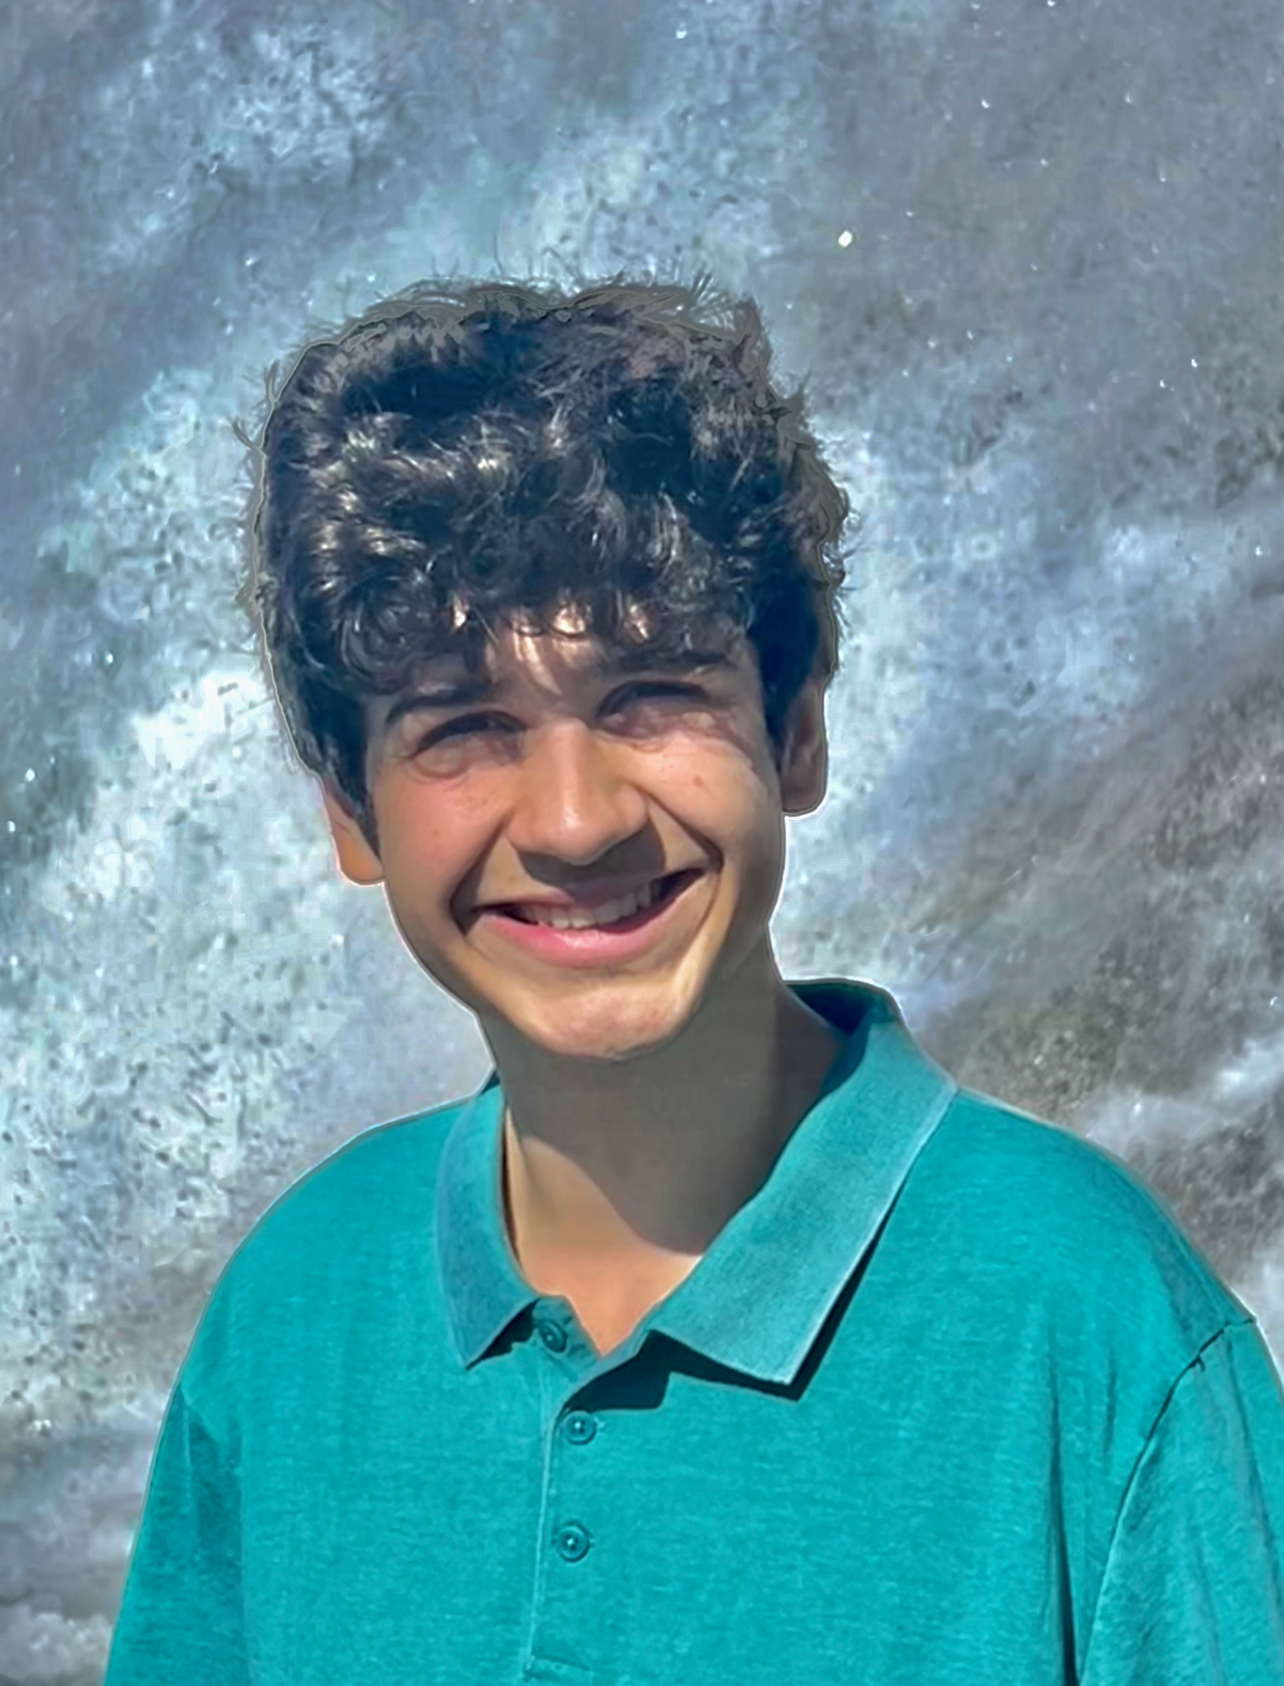
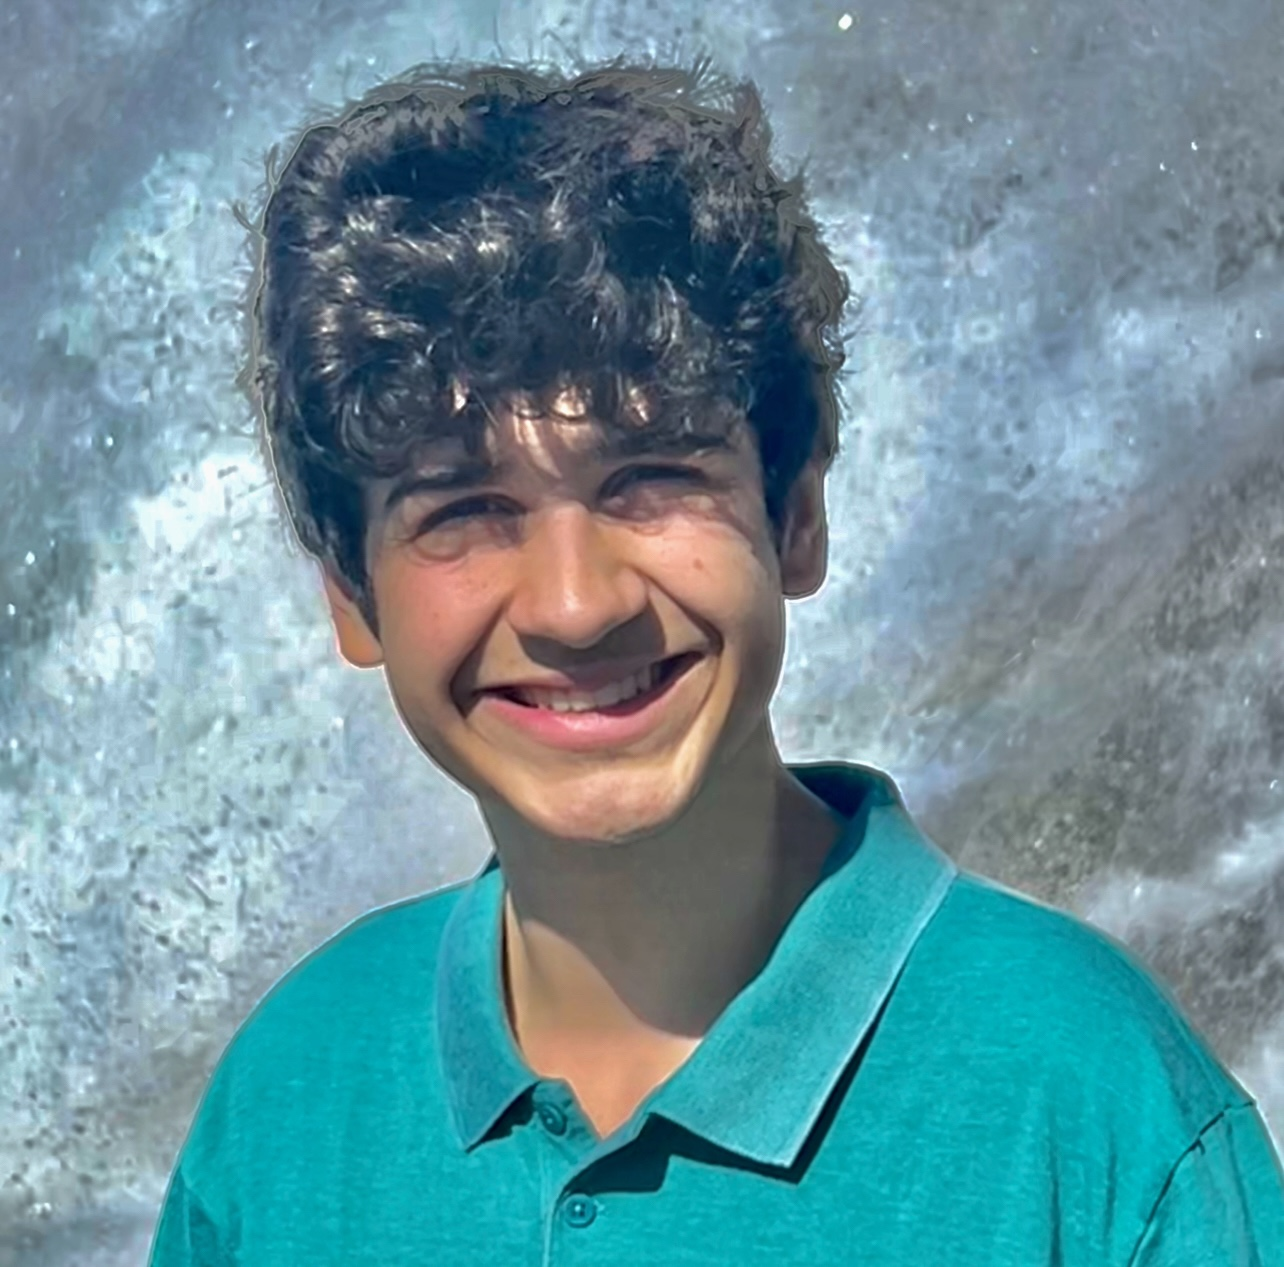
image updates

diff --git a/index.html b/index.html
@@ -4,7 +4,7 @@
 <body>
 <header class="header"><a class="brand" href="./"><strong>PSI</strong><span>Partnership for Scientific Inquiry</span></a><nav><a href="about/">About</a><a href="leadership/">Leadership</a><a href="application/">Application</a><a href="faq/">FAQ</a><a href="important-dates/">Important Dates</a><details class="more-menu"><summary>More</summary><div><a href="awards/">Awards</a><a href="collaborations/">Collaborations</a><a href="testimonials/">Testimonials</a><a href="previous-lectures/">Lectures</a><a href="lewis-scholars/">Lewis Scholars</a><a href="alumni-achievements/">Alumni Achievements</a><a href="media/">Media</a><a href="visitor-analytics/">Visitor Analytics</a></div></details><a href="contact/">Contact Us</a></nav><a class="button yellow" href="donate/">Donate to PSI</a></header>
 <main>
-  <section class="hero"><div class="hero-copy"><p class="kicker">Partnership for Scientific Inquiry</p><h1>Building tomorrow's researchers today</h1><p>The Partnership for Scientific Inquiry (PSI) program introduces high school students to the scientific process, encouraging their scientific passion and fostering a relationship between researchers and the local community.</p><div class="actions"><a class="button yellow" href="application/">Application</a><a class="button outline" href="about/">About the PSI Program</a></div></div><img src="assets/97aecb894393459e849c6cea5624c52c.jpg" alt=""></section>
+  <section class="hero"><div class="hero-copy"><p class="kicker">Partnership for Scientific Inquiry</p><h1>Building tomorrow's researchers today</h1><p>The Partnership for Scientific Inquiry (PSI) program introduces high school students to the scientific process, encouraging their scientific passion and fostering a relationship between researchers and the local community.</p><div class="actions"><a class="button yellow" href="application/">Application</a><a class="button outline" href="about/">About the PSI Program</a></div></div><img class="hero-main-image" src="assets/homepage-lab-2026.png" alt="PSI students working together in a biomedical research laboratory"></section>
   <section class="content split"><div><p class="kicker blue">Program Overview</p><h2>About the PSI Course</h2></div><div><p>Our program accepts Sophomore, Junior, and Senior high school students who are interested in pursuing careers in medicine or biomedical research through a 16-week course from January to May. Students are introduced to the scientific process and gain access to research scientists from OHSU and other Portland research institutes.</p><p>The semester-long program typically ends with a summer internship opportunity to work alongside a research mentor, requiring students to be at least 16 years old.</p><p>We meet for two hours on Wednesdays (January-May) for a lecture series and to learn about ongoing research projects conducted by scientists at Oregon Health &amp; Science University (OHSU).</p></div></section>
   <section class="green-band"><div class="content"><p class="kicker">Elements of the Program</p><div class="cards"><article><div class="card-image"><img class="mentor-image" src="assets/mentor-autumn-schnathorst.jpeg" alt="PSI student Autumn Schnathorst with her mentor at a poster presentation"></div><h3>Didactic Mentors</h3><p>All PSI students are matched one-on-one with a didactic mentor to guide them through the 16-week didactic course.</p><a href="about/">About the PSI Program</a></article><article><div class="card-image"><img class="summer-image" src="assets/8c51ca_e12936298d0d42bba3d9cb0ba8fda319~mv2.png" alt="Student conducting summer research"></div><h3>Summer Internship</h3><p>Students may elect to join a scientific laboratory or perform clinical research over the summer.</p><a href="important-dates/">Important Dates</a></article><article><div class="card-image"><img class="conference-image" src="assets/8c51ca_7bb2a221c1ff40a1aea00238dcd94cdd~mv2.jpeg" alt="PSI students and mentors at the poster conference"></div><h3>PSI Poster Conference</h3><p>As of 2023, we host a poster symposium at the end of the summer internship series to showcase the students' research and allow them to practice their presentation skills.</p><a href="awards/">View Conference Awards</a></article></div></div></section>
   <section class="course-experience"><div class="content"><div class="course-heading"><p class="kicker blue">The Student Experience</p><h2>Learning science by doing science</h2></div><div class="experience-grid"><article><span>01</span><h3>Mentorship &amp; Scientific Communication</h3><p>Each student will be mentored by a researcher. Each student gains firsthand knowledge of research methods, and, with their mentor's help, will present a published research article in a journal club format and develop their own research proposal.</p></article><article><span>02</span><h3>Commitment &amp; Summer Research</h3><p>The program requires regular attendance and significant time commitment outside of class for course assignments. Students may elect to join a scientific laboratory or perform clinical research over the summer. Research faculty and students volunteer their time and resources to mentor PSI students.</p></article><article><span>03</span><h3>Connecting with Local Schools</h3><p>We work closely with local high school officials to reach out to students interested in science and medical research and to arrange for high school credit earned by participating in the class.</p></article></div></div></section>

diff --git a/awards/index.html b/awards/index.html
@@ -26,9 +26,7 @@
     .award-grid{display:grid;grid-template-columns:repeat(4,minmax(0,1fr));gap:19px}
     .award-card{display:flex;flex-direction:column;overflow:hidden;border:1px solid #cddce8;background:#fff;box-shadow:0 10px 25px rgba(5,44,91,.06)}
     .award-card img{width:100%;aspect-ratio:4 / 3;object-fit:cover;object-position:center 30%;background:#edf5fb}
-    .award-card img.portrait-crop{aspect-ratio:1 / 1.02}
-    .award-card img.focus-right{object-position:100% 34%}
-    .award-card img.focus-left{object-position:0 34%}
+    .award-card img.uncropped-photo{aspect-ratio:3 / 2;object-fit:contain;object-position:center;background:#e8eef4}
     .award-card-copy{display:flex;flex:1;flex-direction:column;padding:21px 18px 20px}
     .award-card h3{margin:0;color:#084fa8;font-size:22px;line-height:1.1;letter-spacing:-.035em}
     .award-card .name{margin:8px 0 13px;color:#083d36;font-size:16px;font-weight:800;line-height:1.25}
@@ -91,8 +89,8 @@
         <div class="featured-list"><div>Lightning Talks: Students delivered concise, impactful presentations highlighting their summer research and literature projects.</div><div>Poster Presentations: Over 40 posters covered topics in biomedical research, engineering, neuroscience, genetics, and more, reflecting the intellectual curiosity and dedication of our students.</div><div>Award Ceremony: Exceptional students were recognized for their creativity, scientific rigor, and presentation skills.</div></div>
         <div class="award-grid">
           <article class="award-card"><img src="../assets/8c51ca_ab9fc70604c2479bb27257260f562fb8~mv2.jpg" alt="Kaia Matthias presenting her poster."><div class="award-card-copy"><h3>Best Lightning Talk - First Place</h3><p class="name">Kaia Matthias</p><p class="caption">Kaia presenting her poster.</p><a href="../documents/kaia-matthias-2025-project.pdf" target="_blank" rel="noopener">Read More</a></div></article>
-          <article class="award-card"><img class="portrait-crop focus-right" src="../assets/8c51ca_ba4d5811f9ce43709922f191ab0d89bb~mv2.jpeg" alt="McKenzie practicing her lightning talk."><div class="award-card-copy"><h3>Best Lightning Talk - Second Place</h3><p class="name">McKenzie Vo</p><p class="caption">McKenzie practicing her lightning talk.</p><a href="../documents/mckenzie-vo-2025-project.pdf" target="_blank" rel="noopener">Read More</a></div></article>
-          <article class="award-card"><img class="portrait-crop focus-left" src="../assets/8c51ca_fedd6ed0591249759b2705693eb8a132~mv2.jpg" alt="Swathi presenting her poster."><div class="award-card-copy"><h3>Best Lightning Talk - Third Place</h3><p class="name">Swathi Ram</p><p class="caption">Swathi presenting her poster.</p><a href="../documents/swathi-ram-2025-project.pdf" target="_blank" rel="noopener">Read More</a></div></article>
+          <article class="award-card"><img class="uncropped-photo" src="../assets/8c51ca_ba4d5811f9ce43709922f191ab0d89bb~mv2.jpeg" alt="McKenzie practicing her lightning talk."><div class="award-card-copy"><h3>Best Lightning Talk - Second Place</h3><p class="name">McKenzie Vo</p><p class="caption">McKenzie practicing her lightning talk.</p><a href="../documents/mckenzie-vo-2025-project.pdf" target="_blank" rel="noopener">Read More</a></div></article>
+          <article class="award-card"><img class="uncropped-photo" src="../assets/8c51ca_fedd6ed0591249759b2705693eb8a132~mv2.jpg" alt="Swathi presenting her poster."><div class="award-card-copy"><h3>Best Lightning Talk - Third Place</h3><p class="name">Swathi Ram</p><p class="caption">Swathi presenting her poster.</p><a href="../documents/swathi-ram-2025-project.pdf" target="_blank" rel="noopener">Read More</a></div></article>
           <article class="award-card"><img src="../assets/8c51ca_1885a3f01aa345b694c32e663defcdbb~mv2.jpg" alt="Vrasti's mom, Sofia (PSI director), and Vrasti proudly showcasing her many well-earned awards."><div class="award-card-copy"><h3>Best Lightning Talk - Honorable Mention</h3><p class="name">Vrasti Jain</p><p class="caption">Vrasti's mom, Sofia (PSI director), and Vrasti proudly showcasing her many well-earned awards.</p><a href="../documents/vrasti-jain-2025-project.pdf" target="_blank" rel="noopener">Read More</a></div></article>
           <article class="award-card"><img src="../assets/8c51ca_ed982dff70f54f9f8f0ff6d159b110a6~mv2.jpg" alt="Vrasti presenting her poster."><div class="award-card-copy"><h3>Best Poster Presentation - First Place</h3><p class="name">Vrasti Jain</p><p class="caption">Vrasti presenting her poster.</p><a href="../documents/vrasti-jain-2025-project.pdf" target="_blank" rel="noopener">Read More</a></div></article>
           <article class="award-card"><img src="../assets/8c51ca_c622b6ebec4346ca9de643f076acadfa~mv2.jpg" alt="Aryan presenting his poster."><div class="award-card-copy"><h3>Best Poster Presentation - Second Place</h3><p class="name">Aryan Iyer</p><p class="caption">Aryan presenting his poster.</p><a href="../documents/aryan-iyer-2025-project.pdf" target="_blank" rel="noopener">Read More</a></div></article>

diff --git a/lewis-scholars/index.html b/lewis-scholars/index.html
@@ -10,8 +10,6 @@ body{background:#fff;color:var(--ink)}.lewis-nav-more{position:relative;display:
 .lewis-main{width:min(1160px,calc(100% - 64px));margin:0 auto;padding:84px 0 110px}.lewis-intro{display:grid;grid-template-columns:.72fr 1.28fr;gap:72px;padding-bottom:78px;border-bottom:1px solid var(--line)}.lewis-intro h2,.lewis-section-title{margin:0;color:var(--lb);font-size:clamp(34px,4vw,56px);line-height:1.04;letter-spacing:-.055em}.lewis-intro-copy{font-size:18px}.lewis-intro-copy p{margin:0 0 19px}.lewis-section{padding-top:78px}.lewis-section-head{display:flex;align-items:end;justify-content:space-between;gap:24px;margin-bottom:30px}.scholar-grid{display:grid;grid-template-columns:repeat(3,1fr);gap:22px}.scholar-card{background:var(--pale);border:1px solid var(--line);display:flex;flex-direction:column}.photo-placeholder{height:290px;background:linear-gradient(135deg,#e7edf4,#f8fafc);border-bottom:1px solid var(--line);position:relative;display:grid;place-items:center;overflow:hidden}.photo-placeholder:after{content:"PHOTO PLACEHOLDER";font-size:11px;letter-spacing:.16em;font-weight:800;color:#7890a5}.photo-placeholder[data-image-src]{outline:2px solid rgba(8,79,168,.08);outline-offset:-8px}.lewis-main .photo-placeholder.has-photo img{object-position:center center}.lewis-main .photo-placeholder[data-image-name="Sara Biju"] img{object-position:center 36%}.lewis-main .photo-placeholder[data-image-name="Ivan Villamizar Alvarado"] img{object-position:center 46%}.lewis-main .photo-placeholder[data-image-name="Oliver Hamilton"] img{object-position:center 44%}.lewis-main .photo-placeholder[data-image-name="Sara Beg"] img{object-position:center 38%}.lewis-main .photo-placeholder[data-image-name="Ivet Freixa-Rodriguez"] img{object-position:center 24%}.lewis-main .photo-placeholder[data-image-name="Kyle Brockert"] img{object-position:center 24%}.lewis-main .photo-placeholder[data-image-name="Callie Chu"] img{object-position:center 30%}.lewis-main .photo-placeholder[data-image-name="Laszlo Szidonya, M.D., Ph.D."] img{object-position:center 40%}.lewis-main .photo-placeholder[data-image-name="Peyton Cowan"] img{object-position:center 34%}.scholar-card-copy{padding:25px 26px 28px}.scholar-card h3{margin:0 0 15px;color:var(--lb);font-size:24px;line-height:1.1;letter-spacing:-.04em}.scholar-card p{font-size:15px;line-height:1.65;margin:0 0 15px}.profile-label{color:var(--lb);font-weight:800;font-size:13px;margin:20px 0 5px!important}.profile-label:first-of-type{margin-top:0!important}.history{background:var(--gray);padding:38px 40px}.history p{font-size:16px;margin:0 0 13px}.asset-note{margin-top:22px!important;color:#64798c;font-size:12px!important}.asset-manifest{display:none}@media(max-width:900px){.header nav{display:none}.lewis-intro{grid-template-columns:1fr;gap:28px}.scholar-grid{grid-template-columns:repeat(2,1fr)}.lewis-main{width:min(100% - 40px,1160px)}}@media(max-width:600px){.scholar-grid{grid-template-columns:1fr}.lewis-main{padding-top:62px}.lewis-hero{padding:62px 0}.history{padding:28px 24px}.photo-placeholder{height:320px}}
 /* Portrait sources have different amounts of space above each face. */
 .lewis-main .photo-placeholder[data-image-name="Oliver Hamilton"] img{object-position:center bottom}
-.lewis-main .photo-placeholder[data-image-name="Ivet Freixa-Rodriguez"] img{object-position:center bottom}
-.lewis-main .photo-placeholder[data-image-name="Kyle Brockert"] img{object-position:center bottom}
 .lewis-main .photo-placeholder[data-image-name="Callie Chu"] img{object-position:center bottom}
 </style></head>
 <body>

diff --git a/collaborations/index.html b/collaborations/index.html
@@ -29,6 +29,8 @@
     .collab-card-copy h4{font-size:16px;line-height:1.25;color:var(--ink);margin:0 0 10px}
     .collab-card-copy p{font-size:14px;line-height:1.4;color:#597184;margin:0}
     .collab-card--wide{grid-column:span 2;grid-template-columns:245px minmax(0,1fr)}
+    .collab-card--bme{grid-template-columns:360px minmax(0,1fr)}
+    .collab-card--bme .collab-media img{object-position:center center}
     .collab-card--wide .collab-media,.collab-card--wide .collab-media img{min-height:260px}
     .collab-card--wide .collab-card-copy{padding:34px 42px}
     .collab-card--wide .collab-card-copy h3{font-size:29px}
@@ -68,7 +70,7 @@
       </div>
       <div class="collab-heading"><h2>Collaborations</h2></div>
       <div class="collab-grid">
-        <article class="collab-card collab-card--wide"><figure class="collab-media"><img src="../assets/8c51ca_8fbdbfa00e8745fdaff3045c0e38af30~mv2.png" alt="Students participating in the biomedical engineering programming course"></figure><div class="collab-card-copy"><h3>Department of Biomedical Engineering at OHSU</h3><h4>Mini-Course on Computer Programming</h4><p>Hosted at the Knight Cancer Research Building (KCRB) at OHSU</p></div></article>
+        <article class="collab-card collab-card--wide collab-card--bme"><figure class="collab-media"><img src="../assets/bme-collaboration-2026.png" alt="PSI students and instructors gathered during the 2026 biomedical engineering collaboration"></figure><div class="collab-card-copy"><h3>Department of Biomedical Engineering at OHSU</h3><h4>Mini-Course on Computer Programming</h4><p>Hosted at the Knight Cancer Research Building (KCRB) at OHSU</p></div></article>
         <article class="collab-card"><figure class="collab-media"><img src="../assets/8c51ca_1d91b60b4acf4b86961202794cd9f386~mv2.png" alt="Students during the BMES laboratory experience"></figure><div class="collab-card-copy"><h3>Biomedical Engineering Society (BMES) Student Chapter at OHSU</h3><h4>Lab Tour and Hands-On Lab Experience</h4><p>Hosted at the Knight Cancer Research Building (KCRB) at OHSU</p></div></article>
         <article class="collab-card"><figure class="collab-media"><img src="../assets/8c51ca_1644ab68bf1d406396c7c5b72cd4f4e3~mv2.jpg" alt="Vollum Institute at OHSU"></figure><div class="collab-card-copy"><h3>CoRTEX: Conversations on Research, Technology, and Experimentation</h3><h4>Series of Classes &amp; Workshops on Neuroscience</h4><p>Hosted at the Vollum Institute at OHSU</p></div></article>
         <article class="collab-card collab-card--wide"><figure class="collab-media"><img src="../assets/8c51ca_295a8875ed4c4e9a9fe433b9d58df297~mv2.png" alt="Figuring Out Taxes workshop"></figure><div class="collab-card-copy"><h3>Figuring Out Taxes</h3><h4>A Workshop for Real Life</h4><p>Hosted at Joseph R. Robertson Collaborative Life Sciences Building</p></div></article>

diff --git a/donate/index.html b/donate/index.html
@@ -28,10 +28,11 @@ body{background:#fff;color:var(--donate-ink)}
 .donate-lead-copy{display:flex;flex-direction:column;justify-content:center;padding:54px 58px;background:var(--donate-gray);border:1px solid var(--donate-line);border-left:7px solid var(--donate-yellow);border-radius:20px}
 .donate-lead-copy h2{margin:0 0 20px;color:var(--donate-blue);font-size:clamp(32px,4vw,52px);line-height:1.03;letter-spacing:-.06em}
 .donate-lead-copy p{margin:0;max-width:500px;font-size:20px;line-height:1.45}
+.donate-lead-copy .button{width:max-content;margin-top:28px;background:var(--donate-yellow);color:var(--donate-navy);box-shadow:0 7px 18px rgba(21,48,71,.12)}
 .photo-frame{min-height:330px;overflow:hidden;background:#eaf2f8;border:1px solid var(--donate-line);border-radius:20px}
 .photo-frame img{display:block;width:100%;height:100%;min-height:330px;object-fit:cover;object-position:center}
 .give-block .photo-frame{min-height:0;aspect-ratio:920 / 680;background:#fff}
-.give-block .photo-frame img{height:100%;min-height:0;object-fit:cover}
+.give-block .photo-frame img{height:100%;min-height:0;object-fit:cover;transform:scale(1.28);transform-origin:center}
 .section-block{padding:74px 0 0}
 .section-block h2{margin:0 0 18px;color:var(--donate-blue);font-size:clamp(30px,3.5vw,45px);line-height:1.05;letter-spacing:-.055em}
 .section-block>p{max-width:840px;margin:0 0 22px;font-size:18px}
@@ -95,6 +96,7 @@ body{background:#fff;color:var(--donate-ink)}
       <div class="donate-lead-copy">
         <h2>Support the Next Generation of Scientists!</h2>
         <p>Your gift helps high school students gain real-world research experience at OHSU.</p>
+        <a class="button" href="https://give.ohsufoundation.org/?pid=psi">Donate to PSI</a>
       </div>
       <div class="photo-frame"><img src="../assets/psi-knight-cancer-institute-2026.png" alt="PSI students visiting the OHSU Knight Cancer Institute in 2026"></div>
     </div>

diff --git a/styles.css b/styles.css
@@ -9,7 +9,7 @@ img{display:block;max-width:100%}.hero>img{object-position:center center}.page-h
 .cards .conference-image{object-position:center 46%}
 .cards .card-image{width:calc(100% + 56px);height:220px;overflow:hidden;margin:0 -28px 24px;background:var(--pale)}
 .cards .card-image img{width:100%;height:100%;margin:0;object-fit:cover}
-.cards .card-image .mentor-image{object-position:center 43%;transform:scale(1.06)}
+.cards .card-image .mentor-image{object-position:center 31%;transform:none}
 .cards .card-image .summer-image{object-position:68% center;transform:scale(1.16)}
 .cards .card-image .conference-image{object-position:center 48%;transform:scale(1.1)}
 .story>img.story-logo{object-fit:contain;background:#273a7d;padding:14px}
@@ -94,6 +94,7 @@ footer .brand{flex:0 0 72px;background-color:#fff}
 @media(min-width:901px){
   .hero{overflow:hidden}
   .hero>img{object-position:68% center;transform:translateY(-24px) scale(1.1);transform-origin:center center}
+  .hero>img.hero-main-image{object-position:center center;transform:none}
 }
 
 /* Contact page refinement */

diff --git a/leadership/index.html b/leadership/index.html
@@ -25,6 +25,7 @@
     .people-card{overflow:hidden;background:#fff;border:1px solid #cddce8;box-shadow:0 10px 25px rgba(5,44,91,.06)}
     .people-card img{display:block;width:100%;aspect-ratio:1 / 1;object-fit:cover;object-position:center 24%;background:#edf5fb}
     .people-card img[alt="Ruhika Prasad"]{object-position:center 18%}
+    .people-card img[alt="Kevin Elk"]{object-position:center 10%}
     .people-card-copy{display:flex;flex-direction:column;align-items:flex-start;padding:20px 19px 22px}
     .people-card h3{font-size:24px;line-height:1.05}
     .people-card .role{margin:8px 0 12px;font-size:12px}
